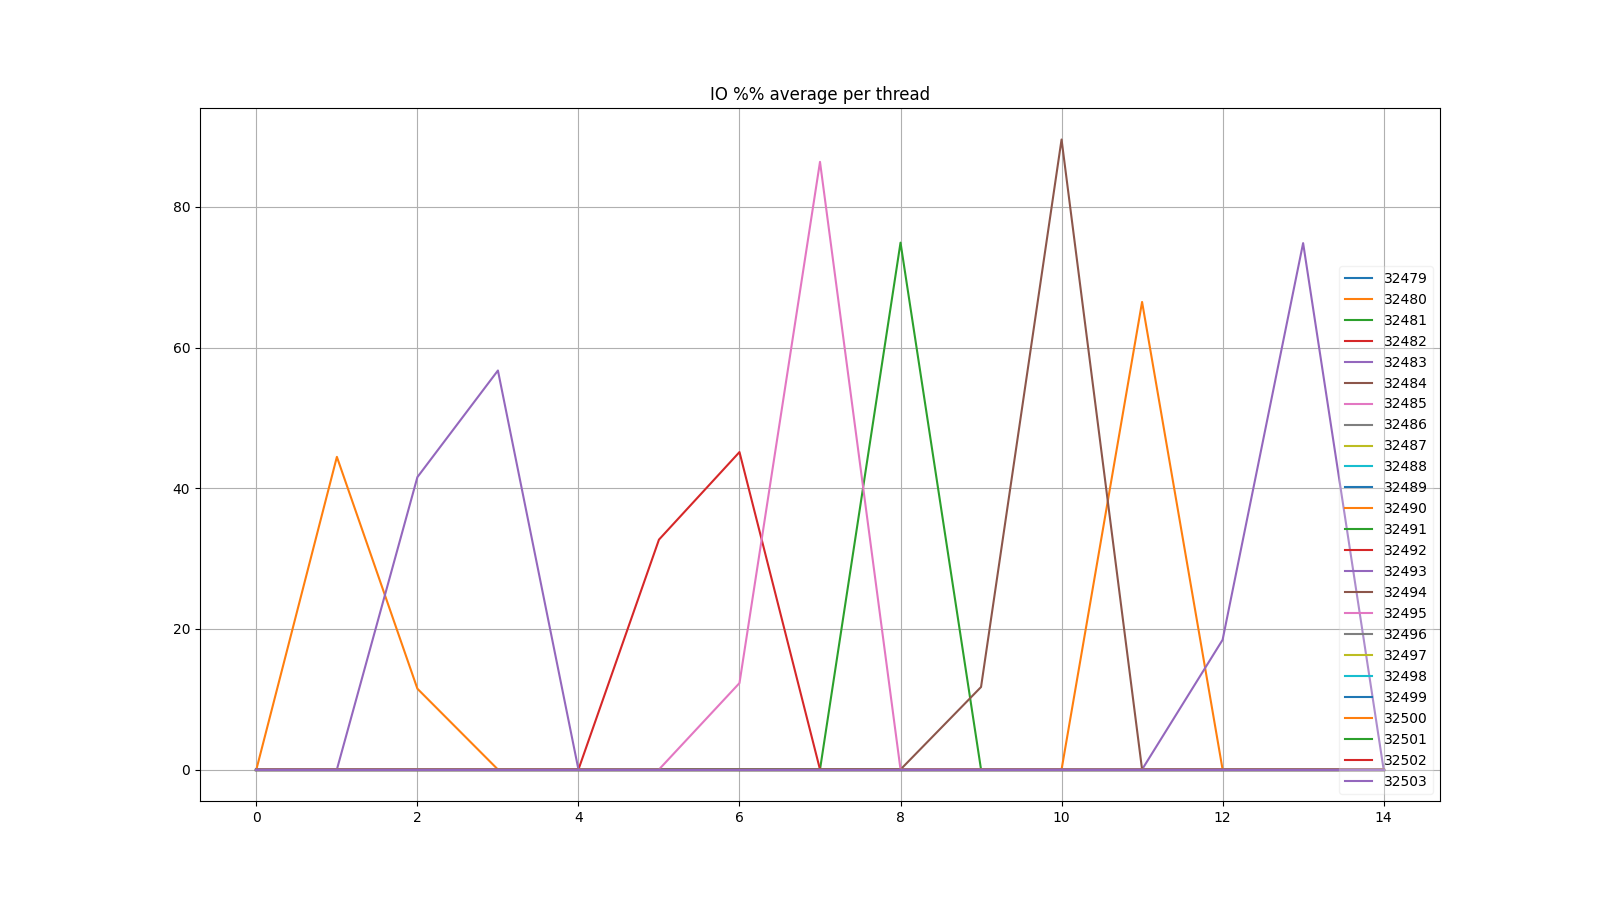
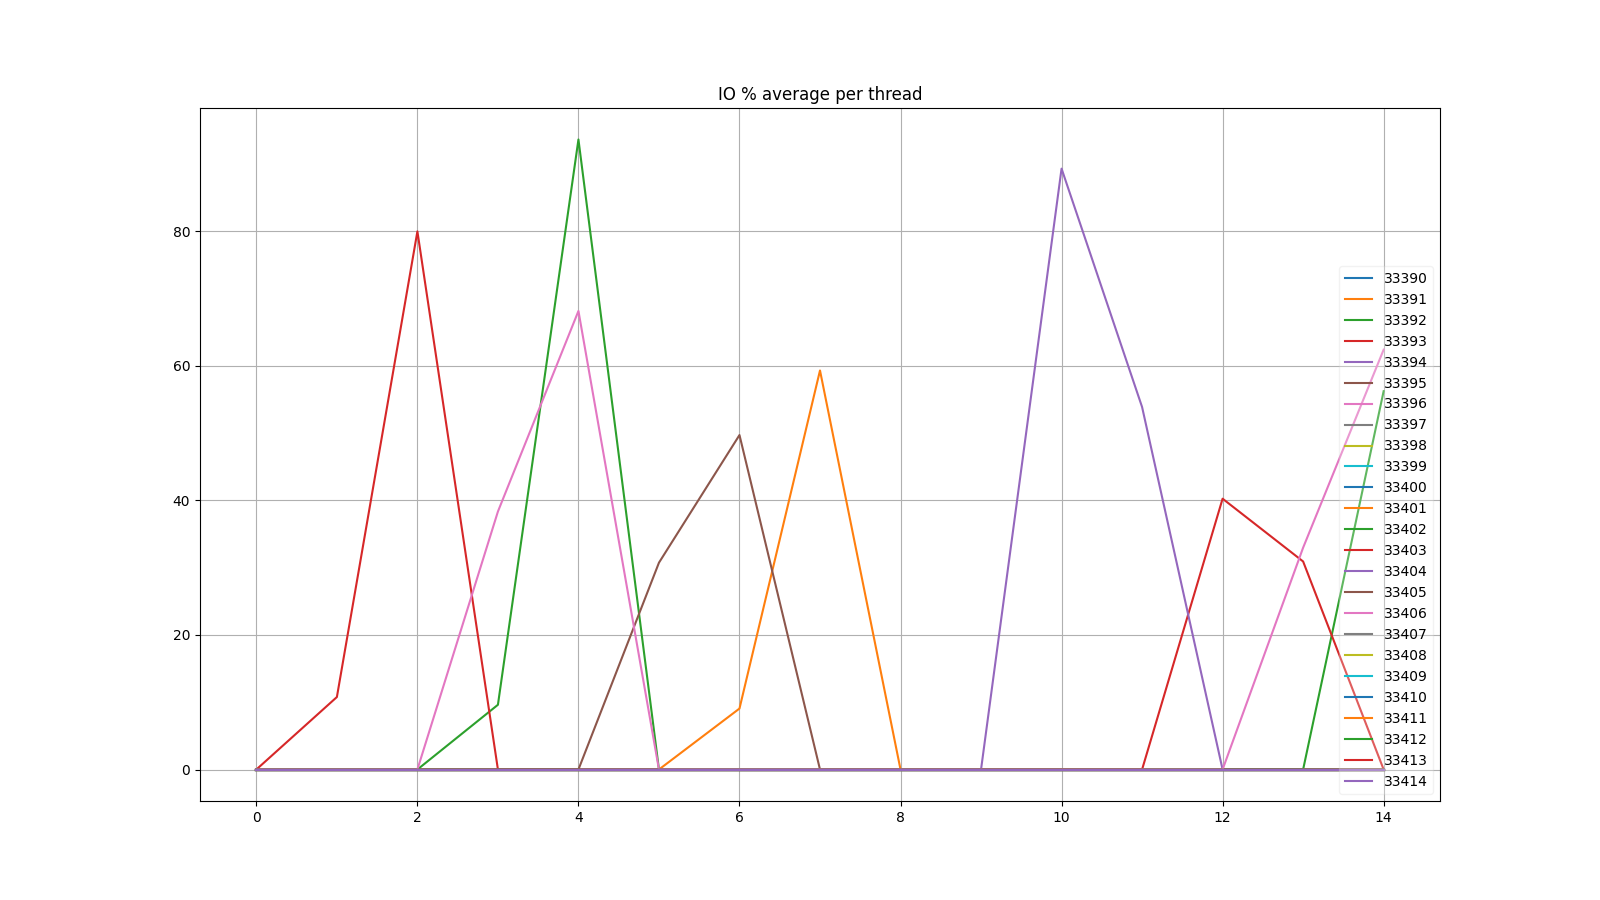
feat: renewed io graph

diff --git a/ioplotter.py b/ioplotter.py
@@ -9,7 +9,7 @@ def iostat_plot( data ):
         Xs = [ x for x in range( len( data[ key ] ) ) ]
         plt.plot( Xs, data[ key ], label=key )
     plt.legend( loc='lower right', framealpha = 0.25 )
-    plt.title( "IO %% average per thread" )
+    plt.title( "IO % average per thread" )
     plt.savefig( 'iostat.png' )
 
 
